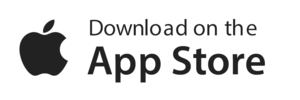
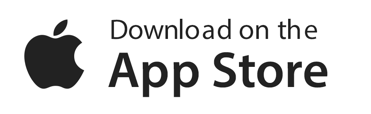
ImpactLeagueForm3

diff --git a/templates/Home.html b/templates/Home.html
@@ -16,13 +16,16 @@
                         </a>
                         <h2 class='tagline'>Get fit. Do good.</h2>
                     </div>
+                    <div class="centerFlex">
+                     <div class="text">
+                        Real change in society must start from individual initiative
+                        <br> - The Dalai Lama
+                        <br><span><img src="../ImpactRunSiteImages/ImpactRun_QuotationRed-01.png"></span>
+                     </div>
+                     </div>
                     <div class="wrapBtncontent">
                         <div class="Btninline">
-                            <div class="text">
-                                Real change in society must start from individual initiative
-                                <br> - The Dalai Lama
-                                <br><span><img src="../ImpactRunSiteImages/ImpactRun_QuotationRed-01.png"></span>
-                            </div>
+                           
                             <!-- <a href="#/AppDownload">
                         <div ng-controller="HomeController">
                             <div ng-controller="HomeController">
@@ -250,13 +253,16 @@
                         </a>
                         <h2 class='tagline'>Get fit Do good</h2>
                     </div>
+                    <div class='centerFlex'> 
+                    <div class="text">
+                        Real change in society must start from individual initiative
+                        <br> - The Dalai Lama
+                        <br><span><img src="../ImpactRunSiteImages/ImpactRun_QuotationRed-01.png"></span>
+                    </div>
+                    </div>
                     <div class="wrapBtncontent">
                         <div class="Btninline">
-                            <div class="text">
-                                Real change in society must start from individual initiative
-                                <br> - The Dalai Lama
-                                <br><span><img src="../ImpactRunSiteImages/ImpactRun_QuotationRed-01.png"></span>
-                            </div>
+                            
                             <!-- <a href="#/AppDownload">
                         <div ng-controller="HomeController">
                             <div ng-controller="HomeController">

diff --git a/css/home.css b/css/home.css
@@ -13,12 +13,18 @@ img.homesecimg {
     height: 100%;
     float: right;
 }
+
 .downloadBtnWrap {
-    margin-top: 8%;
+    margin-left: -4%; 
     display: inline-flex;
 }
+.centerFlex {
+    display: flex;
+    justify-content: center;
+    align-items: center;
+    height: 40%;
+}
 .wrapBtncontent {
-    height: 500px;
     width: 100%;
     justify-content: center;
     display: flex;
@@ -26,20 +32,25 @@ img.homesecimg {
 }
 .appleappDownload{
  height: 70px;
- width: 214px;
+ width: 227px;
  background-size: cover; 
  background-image: url('../ImpactRunSiteImages/appleappbtn.png');
 }
 .googleappDownload{
  height: 70px;
- width: 214px;
+ width: 227px;
+ margin-left: 10%;
  background-size: cover;
  background-image: url('../ImpactRunSiteImages/googleappbtn.png');
 }
 .ImpactLeagueForm{
-
-    position:absolute;   
+    overflow: auto;
     height: 100%;
+    width: 100%;
+}
+.impactLeaguePage.ng-scope {
+    
+    height: 100vh;
     width: 100%;
 }
 .logo img {
@@ -230,7 +241,9 @@ font-weight:600;
     background:transparent;
     z-index: 1000;
 }
+
 .colorbar {
+    display:none;
     position: fixed;
     top: 0;
     right: 0;
@@ -952,7 +965,7 @@ section#section01 {
     width: 100%;
     justify-content: center;
     position: relative;
-    top: 50px;
+    top: 25%;
     z-index: 100;
 }
 
@@ -968,13 +981,11 @@ section#section01 {
 }*/
 p.contact2 {
     text-align: center;
-    text-shadow:10px 5px 10px black;
     color: white;
     font-size: 1.2vw;
     font-family: montserrat;
 }
 .lastslide h2 {
-    text-shadow:10px 5px 10px black;
     color: white;
     font-size: 1.8vw;
     font-family: montserrat;

diff --git a/css/responsive.css b/css/responsive.css
@@ -22,6 +22,12 @@ img.homesecimg {
 .textWrap{
     left: 15px;
 }
+.centerFlex {
+    display: flex;
+    justify-content: center;
+    align-items: center;
+    height: 30%;
+}
 .colorbar{
     display: none;
 }
@@ -36,17 +42,18 @@ img.homesecimg {
     display: none;
 }
 .downloadBtnWrap {
-    margin-top: 8%;
     display: block;
+    margin-left: 0%;
 }
 .googleappDownload{
-  margin-top: 10px;
+  margin-left: 0px;
+  margin-top: 10%;
   height: 55px;
-  width: 167px;  
+  width: 180px;  
 }
 .appleappDownload {
-    height: 54px;
-    width: 164px;
+    height: 55px;
+    width: 180px;
 }
 .logo img {
     width: 70% !important;
@@ -213,11 +220,7 @@ h1.first img {
     font-size: 4.3vw;
     font-weight: 100;
     width: 75%;
-    position: absolute;
-    left: 0;
-    right: 0;
-    margin: 0 auto;
-    top: 45%;
+
 }
    .containerSecond1 {
     width: 117%;

diff --git a/js/app.js b/js/app.js
@@ -80,7 +80,7 @@
               templateUrl: 'templates/AboutUs.html',
               controller:'AboutusController'
             })
-            .when('/impactLeague', {
+            .when('/impactleague', {
               templateUrl: 'templates/impactLeague.html',
             })
 
